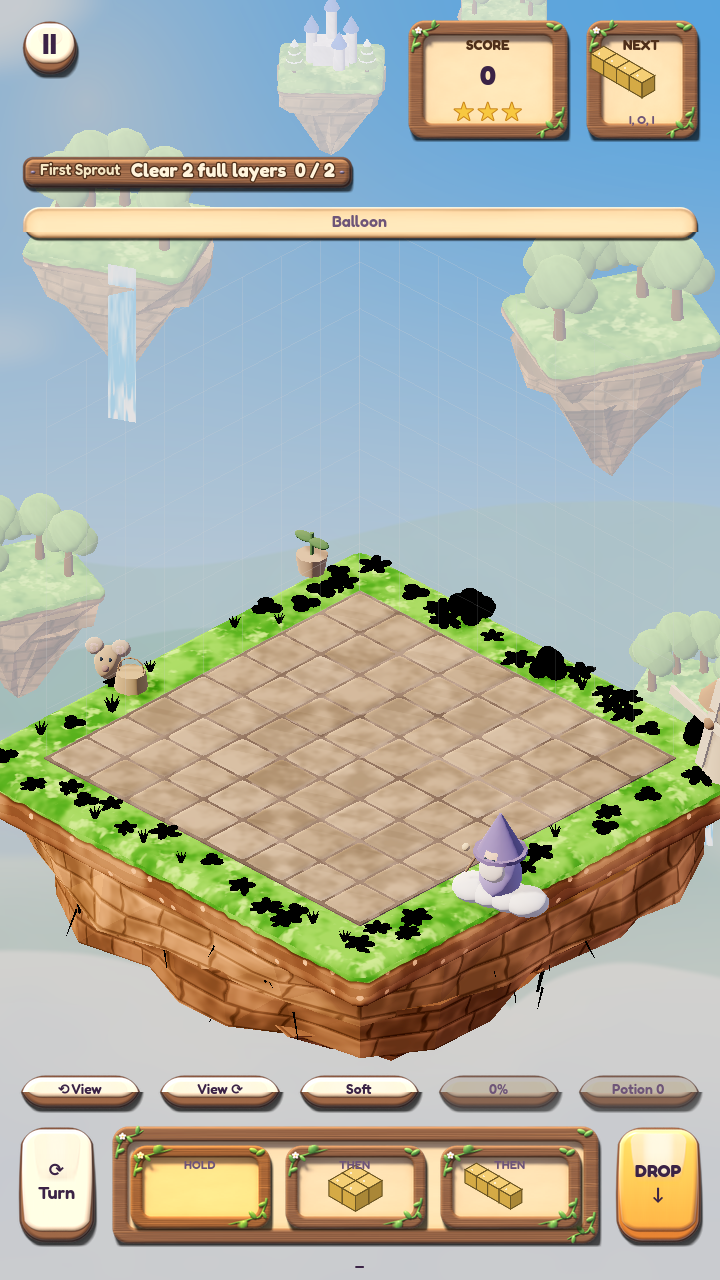
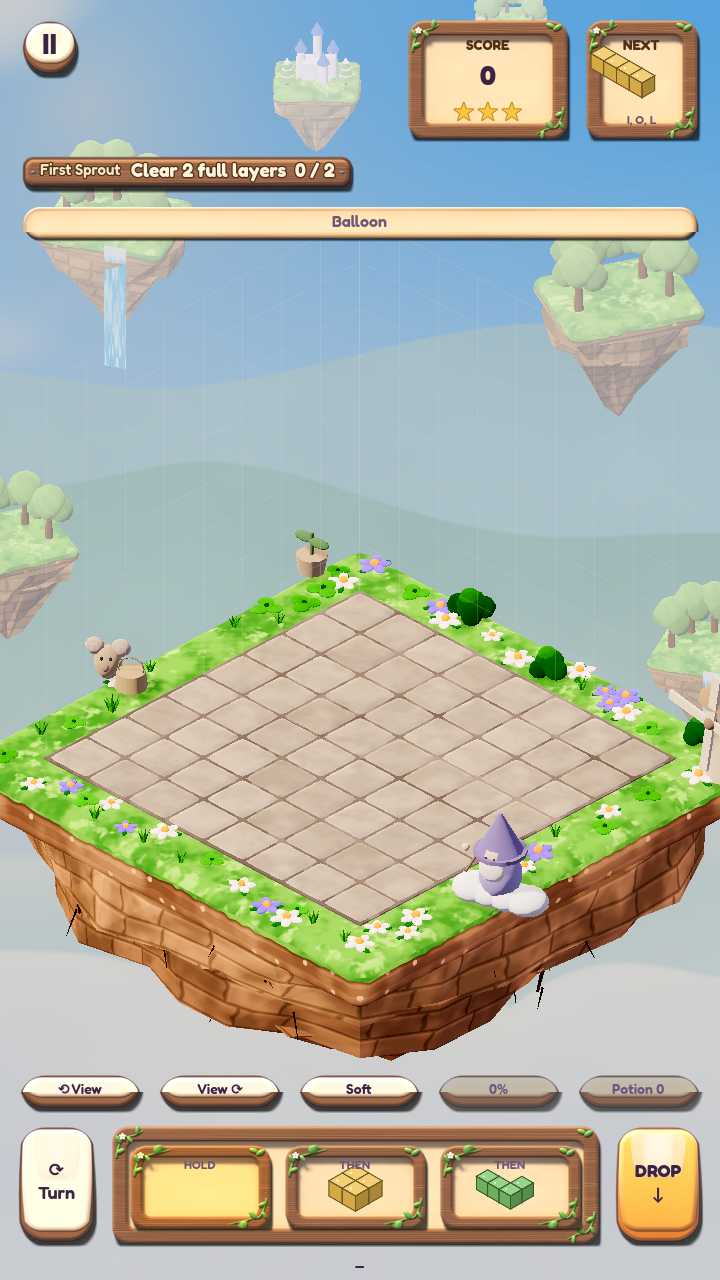
docs(art): reference board index; add settings-with-wizard board
assets/art/reference/index.md maps each user board to its file. Notes
the logo-bearing boards are layout-only.

Story: art bible v2 references (design/art/art-bible.md)

Claude-Session: https://claude.ai/code/session_015gA98JmmjSJ5ZLv762bPy3

diff --git a/assets/source/blender/characters/wizard.py b/assets/source/blender/characters/wizard.py
@@ -36,7 +36,7 @@ BAKE_SIZE = 1024
 PAL = {
     "skin": "f7c9a8", "blush": "f29a9a", "nose": "f5ae98",
     "beard": "fff6f0", "lilac": "9d8cc8", "cloud_line": "d9ccef",
-    "robe": "7a52b0", "hat": "5c2f86", "trim": "f2cf6a",
+    "robe": "7a52b0", "hat": "4a2270", "trim": "f2cf6a",
     "gold": "f8c840", "glint": "fff3b0", "wood": "8a5a34", "boot": "5a3a2a",
     "eye": "1c1222", "mouth": "7a2f3c", "tongue": "e0707a",
 }
@@ -304,6 +304,37 @@ def ring_on_surface(name, target, center, axis, tube, mat, n=36, push=0.003, fro
     return sweep(name, pts, [tube] * len(pts), ring=12, mat=mat, closed=True)
 
 
+def trim_ring(name, target, center, axis, tube, mat, n=36, slab=0.012, push=0.002):
+    """Closed trim tube hugging a surface: per angular bin, the outermost vertex of `target`
+    inside a thin slab across `axis` (raycasts hit the torso from inside the sleeves)."""
+    axis = Vector(axis).normalized()
+    u = axis.orthogonal().normalized()
+    v = axis.cross(u)
+    nv = len(target.data.vertices)
+    co = np.empty(nv * 3, dtype=np.float32)
+    target.data.vertices.foreach_get("co", co)
+    Q = co.reshape(-1, 3) - np.array(center)
+    h = Q @ np.array(axis)
+    Q = Q[np.abs(h) < slab]
+    if len(Q) < 16:
+        return None
+    x, y = Q @ np.array(u), Q @ np.array(v)
+    ang = np.arctan2(y, x)
+    rad = np.hypot(x, y)
+    bins = ((ang + math.pi) / (2 * math.pi) * n).astype(int) % n
+    pts = []
+    for i in range(n):
+        sel = rad[bins == i]
+        if len(sel) == 0:
+            continue
+        a = (i + 0.5) / n * 2 * math.pi - math.pi
+        r = float(sel.max()) + push
+        pts.append(Vector(center) + r * (math.cos(a) * u + math.sin(a) * v))
+    if len(pts) < 8:
+        return None
+    return sweep(name, pts, [tube] * len(pts), ring=12, mat=mat, closed=True)
+
+
 def skin_limb(name, pts, radii):
     """Recipe step 2: polyline skeleton + Skin modifier + Subdivision 2."""
     me = bpy.data.meshes.new(name)
@@ -365,7 +396,7 @@ def plush(name, base, shade, dist):
     ao.inputs["Distance"].default_value = dist
     ao.samples = 8
     ramp = nt.nodes.new("ShaderNodeMapRange")
-    ramp.inputs["From Min"].default_value = 0.35
+    ramp.inputs["From Min"].default_value = 0.68
     ramp.inputs["From Max"].default_value = 1.0
     nt.links.new(ao.outputs["AO"], ramp.inputs["Value"])
     nt.links.new(mix_rgb(nt, ramp.outputs[0], lin(shade), lin(base)), b.inputs["Base Color"])
@@ -411,7 +442,7 @@ def materials():
         "cloud": plush("cloud", "beard", "lilac", 0.35),
         "cloud_line": plush("cloud_line", "cloud_line", "lilac", 0.2),
         "robe": felt("robe", "robe", rough=0.85, sheen=0.55, bump=0.03),
-        "hat": felt("hat", "hat", rough=0.9, sheen=0.6, bump=0.05),
+        "hat": felt("hat", "hat", rough=0.9, sheen=0.25, bump=0.05),
         "trim": principled("trim", "trim", rough=0.38, metal=0.55),
         "gold": principled("gold", "gold", rough=0.25, metal=0.8,
                            Emission_Color=lin("gold"), Emission_Strength=0.25),
@@ -433,7 +464,7 @@ POSES = {
     "idle": {
         "R": [(-0.19, 0.02, 0.79), (-0.30, -0.04, 0.67), (-0.31, -0.18, 0.66)], "R_hand": "fist",
         "L": [(0.19, 0.02, 0.79), (0.30, -0.04, 0.65), (0.27, -0.18, 0.58)], "L_hand": "rest",
-        "wand": (-0.30, -0.15, 1.0), "eyes": "closed", "mouth": False,
+        "wand": (-0.6, -0.12, 1.0), "eyes": "closed", "mouth": False,
     },
     "cheer": {
         "R": [(-0.19, 0.02, 0.81), (-0.33, -0.03, 0.95), (-0.40, -0.07, 1.11)], "R_hand": "fist",
@@ -469,12 +500,13 @@ def build(pose_name, M):
     for co, semi in puffs:
         g = bmesh.ops.create_uvsphere(bm, u_segments=32, v_segments=16, radius=1.0)
         bmesh.ops.transform(bm, matrix=Matrix.Translation(co) @ Matrix.Diagonal((*semi, 1.0)), verts=g["verts"])
+    bm.transform(Matrix.Diagonal((1.12, 1.05, 1.0, 1.0)))
     cloud = mesh_obj("C_cloud", bm, M["cloud"])
     add_mods(cloud, remesh=0.012, smooth=(0.6, 14))
     cloud = realize(cloud)
     C.append(cloud)
     # spiral swirls on the front puffs
-    for k, (x, z, r0, turn) in enumerate([(-0.42, 0.22, 0.075, 1), (0.05, 0.16, 0.065, -1), (0.52, 0.24, 0.07, -1)]):
+    for k, (x, z, r0, turn) in enumerate([(-0.45, 0.24, 0.11, 1), (0.02, 0.2, 0.10, -1), (0.55, 0.26, 0.10, -1)]):
         loc, nrm = cast(cloud, (x, -2, z), (0, 1, 0))
         if loc is None:
             continue
@@ -488,7 +520,7 @@ def build(pose_name, M):
             q = loc + rr * (math.cos(ang) * u + math.sin(ang) * v)
             h, _ = cast(cloud, q + nrm * 0.15, -nrm)
             pts.append((h if h is not None else q) + nrm * 0.002)
-            rad.append(0.009 * (1 - 0.6 * t))
+            rad.append(0.012 * (1 - 0.6 * t))
         C.append(sweep(f"C_swirl{k}", pts, rad, ring=8, n=60, mat=M["cloud_line"]))
 
     # ---- head (skin metaball) + blush vertex colours
@@ -540,7 +572,7 @@ def build(pose_name, M):
         rr = 0.065 * (1 - 0.75 * t)
         els.append(B((cx + rr * math.cos(phi), -0.235 + 0.01 * t, cz + rr * math.sin(phi)), 0.064 - 0.036 * t))
     beard = realize(metaball("mb_beard", els, res=0.011), "W_beard", M["beard"])
-    add_mods(beard, remesh=0.008, smooth=(0.5, 10), displace=(0.05, 0.006))
+    add_mods(beard, remesh=0.008, smooth=(0.6, 14))
     beard = realize(beard)
     W.append(beard)
 
@@ -578,12 +610,16 @@ def build(pose_name, M):
         E((0, 0.02, 0.80), (0.19, 0.15, 0.08)), B((-0.15, -0.2, 0.52), 0.11), B((0.15, -0.2, 0.52), 0.11)],
         res=0.014), "W_robe")
     sleeves = []
+    sleeve_only = {}
     arm_dirs = {}
     for side in ("R", "L"):
         S, El, Wr = (Vector(p) for p in pose[side])
         d = (Wr - El).normalized()
         arm_dirs[side] = (Wr, d)
-        sleeves.append(skin_limb(f"W_sleeve{side}", [S, El, Wr, Wr + d * 0.035], [0.075, 0.085, 0.105, 0.118]))
+        sl = skin_limb(f"W_sleeve{side}", [S, El, Wr, Wr + d * 0.035], [0.085, 0.095, 0.12, 0.135])
+        sleeve_only[side] = sl.copy()
+        sleeve_only[side].data = sl.data.copy()
+        sleeves.append(sl)
     robe = join([torso] + sleeves, "W_robe")
     robe.data.materials.clear()
     robe.data.materials.append(M["robe"])
@@ -594,10 +630,13 @@ def build(pose_name, M):
     # gold trim: cuffs and hem
     for side in ("R", "L"):
         Wr, d = arm_dirs[side]
-        cuff = ring_on_surface(f"W_cuff{side}", robe, Wr + d * 0.02, d, 0.02, M["trim"], maxd=0.15, fallback=0.1)
+        cuff = trim_ring(f"W_cuff{side}", robe.copy(), Wr + d * 0.02, d, 0.016, M["trim"], n=28, slab=0.01) if False else \
+            trim_ring(f"W_cuff{side}", sleeve_only[side], Wr + d * 0.02, d, 0.016, M["trim"], n=28, slab=0.01)
         if cuff:
             W.append(cuff)
-    hem = ring_on_surface("W_hem", robe, (0, -0.05, 0.47), (0, 0, 1), 0.022, M["trim"], n=48, from_inside=False)
+    for sl in sleeve_only.values():
+        bpy.data.meshes.remove(sl.data)
+    hem = trim_ring("W_hem", robe, (0, -0.05, 0.49), (0, 0, 1), 0.016, M["trim"], n=56, slab=0.008)
     if hem:
         W.append(hem)
 
@@ -620,14 +659,14 @@ def build(pose_name, M):
             side_v = Vector((1, 0, 0))
         side_v.normalize()
         up = side_v.cross(d).normalized()
-        pc = Wr + d * 0.07
+        pc = Wr + d * 0.055
         if kind == "fist":
-            els = [B(pc, 0.06), B(pc + d * 0.03 - up * 0.01, 0.052), B(pc + up * 0.045 - side_v * 0.02, 0.028)]
+            els = [B(pc, 0.046), B(pc + d * 0.022 - up * 0.008, 0.042), B(pc + up * 0.036 - side_v * 0.016, 0.021)]
         elif kind == "open":
-            els = [E(pc + d * 0.01, (0.06, 0.06, 0.06)), B(pc + d * 0.06, 0.045),
-                   B(pc + d * 0.03 + up * 0.055, 0.026)]
+            els = [E(pc + d * 0.01, (0.05, 0.05, 0.035)), B(pc + d * 0.05, 0.036),
+                   B(pc + d * 0.02 + up * 0.045, 0.021)]
         else:  # rest: mitten resting on the lap
-            els = [B(pc, 0.058), B(pc + d * 0.035, 0.048), B(pc - side_v * 0.045 * (1 if side == "L" else -1) + up * 0.02, 0.026)]
+            els = [B(pc, 0.046), B(pc + d * 0.028, 0.038), B(pc - side_v * 0.045 * (1 if side == "L" else -1) + up * 0.02, 0.026)]
         W.append(realize(metaball(f"mb_hand{side}", els, res=0.008), f"W_hand{side}", M["skin"]))
         if side == "R":
             wd = Vector(pose["wand"]).normalized()
@@ -672,7 +711,7 @@ def build(pose_name, M):
         s = decal_star(f"W_hatstar{k}", hat_parts[0], (x * 3, -2, z), (-x * 3, 2, 0), 0.026, 0.004, M["gold"])
         if s:
             hat_parts.append(s)
-    tilt = Matrix.Translation((0, 0.02, 1.08)) @ Matrix.Rotation(math.radians(-9), 4, "X") @ \
+    tilt = Matrix.Translation((0, 0.02, 1.115)) @ Matrix.Rotation(math.radians(-14), 4, "X") @ \
         Matrix.Rotation(math.radians(6), 4, "Y") @ Matrix.Translation((0, -0.02, -1.08))
     for o in hat_parts:
         o.data.transform(tilt)
@@ -714,6 +753,7 @@ def reset(samples):
     sc.render.image_settings.color_mode = "RGBA"
     sc.view_settings.view_transform = "Standard"
     sc.view_settings.look = "None"
+    sc.view_settings.exposure = -0.2
     world = bpy.data.worlds.new("w")
     sc.world = world
     try:
@@ -727,7 +767,7 @@ def reset(samples):
     cam.data.lens = 35
     cam.data.sensor_width = 36
     sc.camera = cam
-    for nm, col, energy, size in (("key", "fff0d6", 620, 3.0), ("fill", "b8c4ff", 170, 4.0), ("rim", "ffe0a8", 520, 1.6)):
+    for nm, col, energy, size in (("key", "fff0d6", 480, 3.0), ("fill", "b8c4ff", 150, 4.0), ("rim", "ffe0a8", 600, 1.6)):
         ld = bpy.data.lights.new(nm, "AREA")
         ld.color = lin(col)[:3]
         ld.energy = energy

diff --git a/assets/art/reference/index.md b/assets/art/reference/index.md
@@ -1,0 +1,32 @@
+# Reference board index
+
+The user said on 2026-10-13: "This is what our game should be." Level, narrative and art direction are all held to these boards.
+
+| Board | File |
+|---|---|
+| Story flow: wizard's library, tutorial on an island, exploring biomes on a cart, tournament arena | `style/01_story_flow.jpg` |
+| Story beats: lost tomes, Canopy Chaos, Forge Boss, Cosmic Gateway, Grand Finale | `style/02_story_beats.jpg` |
+| Choose Game Mode: library interior, five picture cards | `style/03_choose_mode_library.jpg` |
+| Settings, wide wood panel | `style/04_settings_wide.jpg` |
+| Select Mode A: large Campaign card plus Tournament, Biomes, Arcade, Story | `style/05_select_mode_a.jpg` |
+| Select Mode B: parchment grid of five cards | `style/06_select_mode_b.jpg` |
+| Story and tutorial beats: Wizard's Quest, First Steps, Balance, Goblins, Molten Guardian, Cosmic Nexus | `style/07_story_tutorial_beats.jpg` |
+| Settings and Options, tall | `style/08_settings_options_tall.jpg` |
+| Minigames: Bridge Bashers, Avalanche Ascent, Rubble Rumble, Fort Frenzy | `style/09_minigames_a.jpg` |
+| Minigames: Rolling Rumble, Tumbling Towers, Shatter Shootout, Frenzy Footholds | `style/10_minigames_b.jpg` |
+| Minigames: Bridge Dash, Fort Blast, Maze Heist, Summit Scramble | `style/11_minigames_c.jpg` |
+| Minigames: Clockwork Conveyor, Kraken Blockade, Digging Frenzy, Chroma Sky Climb | `style/12_minigames_d.jpg` |
+| Biome block sheet (12 biomes) | `style/13_biome_blocks.png` |
+| Tumble Fair tournament flow: lobby, wheel, round, standings, win | `style/14_tournament_flow.png` |
+| Title and in-level HUD (meadow, ice, celestial) | `style/15_title_and_hud.png` |
+| Settings with the wizard peeking in | `style/16_settings_wizard_peek.jpg` |
+| Minigames: Temple Roller, Submarine Salvage, Factory Frenzy, Cosmic Gravity Goal | `minigame_mockups/mockup_06.jpg` (*) |
+| Party Battle, 4-player split: Meadow Mayhem, Candy Crushers, Glacier Gauntlet, Cosmic Climb | `minigame_mockups/mockup_12.jpg` (*) |
+| Party Battle, 4-player split: Lava Rumble, Jungle Dash, Gem Grab, Neon Splat | `minigame_mockups/mockup_14.jpg` (*) |
+| Party Battle, portrait: Meadow Mayhem (herd sheep), Candy Dodger, Glacier Rush, Cyber Defender | `minigame_mockups/mockup_15.jpg` |
+| Party Quest hub: central fort with a scoreboard, bridges to Bridge Builders, Bomb Defuse, Balloon Race and Lava Escape | `minigame_mockups/mockup_16.jpg` (*) |
+| Quantum Spire: sci-fi hex board | `minigame_mockups/mockup_17.jpg` |
+
+(*) These boards carry the "TETRO PARTY DIMENSIONS", "WACKY PARTY" or "PARTY QUEST" logos. Use them for layout and content only. Never copy those logos, and avoid "Tetris" naming. Our logo is `logo_master.jpg`.
+
+Four further user boards show Nintendo characters. They are layout references only and are not stored here.
